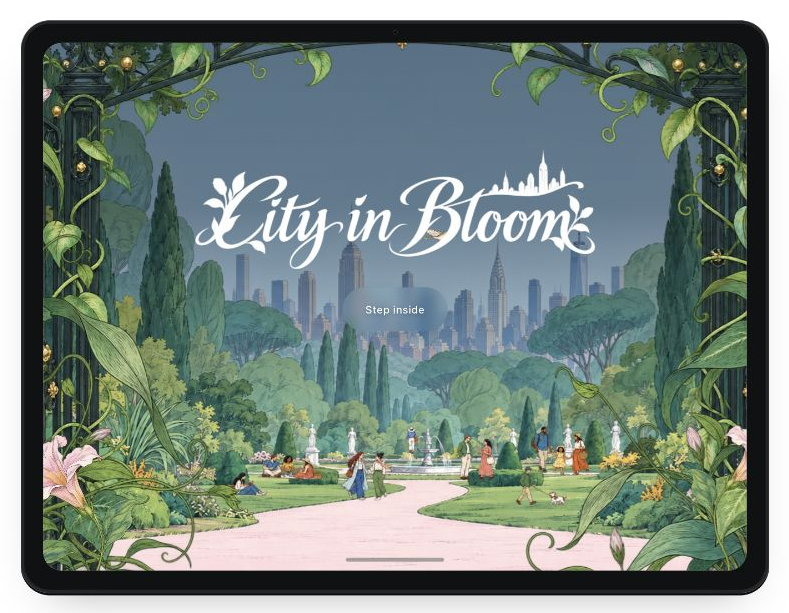
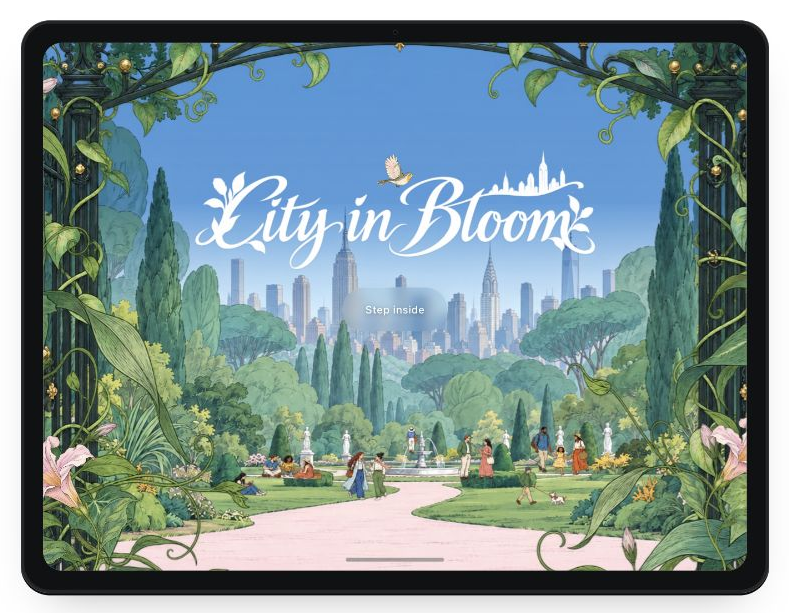
Restore a sunny blue sky behind the white garden title

diff --git a/components/immersive/jardin-opening/jardin-opening.tsx b/components/immersive/jardin-opening/jardin-opening.tsx
@@ -82,7 +82,7 @@ const STYLES = `
 .jardin-opening .jardin-layer { position: absolute; inset: -5%; pointer-events: none; }
 .jardin-opening .jardin-layer[data-layer="midground"] { z-index: 2; }
 .jardin-opening .jardin-layer[data-layer="foreground"] { z-index: 4; }
-.jardin-opening .jardin-sky-shade { position: absolute; inset: -5%; z-index: 1; pointer-events: none; background: linear-gradient(180deg, #142e42a6 0%, #1c354899 36%, #28414f59 53%, #28414f00 72%); mix-blend-mode: multiply; }
+.jardin-opening .jardin-sky-shade { position: absolute; inset: -5%; z-index: 1; pointer-events: none; background: linear-gradient(180deg, #087bcbb8 0%, #087bcba6 35%, #087bcb30 46%, #087bcb00 52%); mix-blend-mode: multiply; }
 .jardin-opening .jardin-drift { width:100%; height:100%; animation: jardin-breathe var(--jardin-duration) ease-in-out infinite alternate; animation-delay: var(--jardin-delay); animation-play-state: var(--jardin-play, running); transform-origin: 50% 75%; }
 .jardin-opening .jardin-art { display: block; width: 100%; height: 100%; object-fit: cover; user-select: none; }
 .jardin-opening .jardin-world { position: absolute; inset: 0; transform-origin: 50% 62%; }
